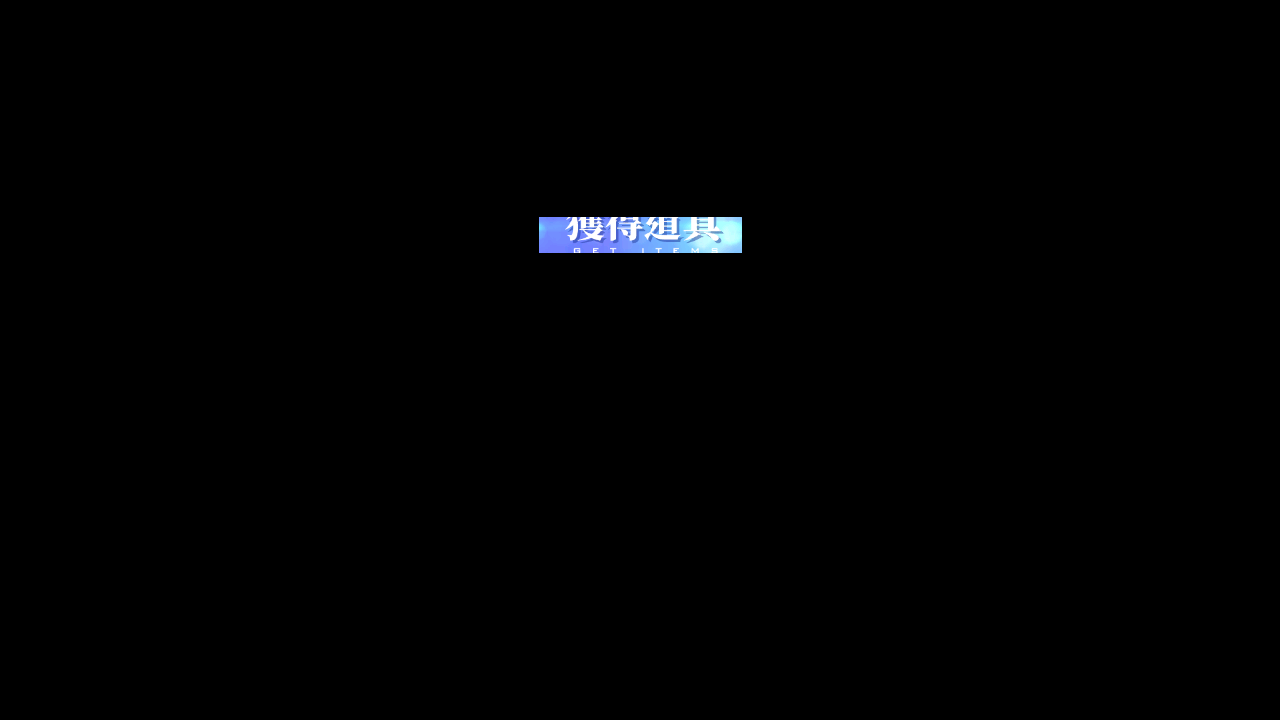
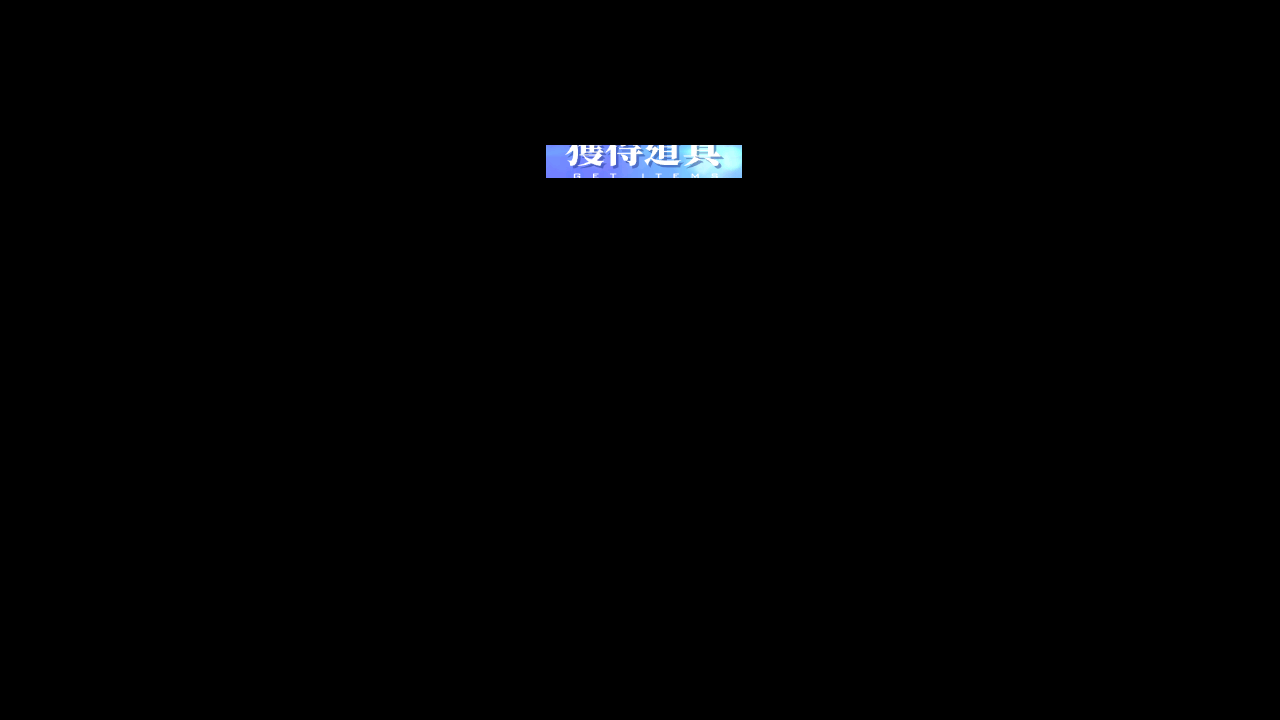
fix:[TW]GET_ITEMS_3.png

Changed region(s): [[0.4062, 0.275, 0.5938, 0.3667], [0.4062, 0.1833, 0.5938, 0.2444]]

diff --git a/module/combat/assets.py b/module/combat/assets.py
@@ -29,7 +29,7 @@ EXP_INFO_D = Button(area={'cn': (377, 42, 393, 137), 'en': (377, 42, 393, 137), 
 EXP_INFO_S = Button(area={'cn': (396, 122, 457, 137), 'en': (396, 122, 457, 137), 'jp': (396, 122, 457, 137), 'tw': (396, 122, 457, 137)}, color={'cn': (233, 241, 127), 'en': (233, 241, 127), 'jp': (233, 241, 127), 'tw': (233, 241, 127)}, button={'cn': (1051, 631, 1122, 641), 'en': (1051, 631, 1122, 641), 'jp': (1051, 631, 1122, 641), 'tw': (1051, 631, 1122, 641)}, file={'cn': './assets/cn/combat/EXP_INFO_S.png', 'en': './assets/en/combat/EXP_INFO_S.png', 'jp': './assets/jp/combat/EXP_INFO_S.png', 'tw': './assets/tw/combat/EXP_INFO_S.png'})
 GET_ITEMS_1 = Button(area={'cn': (538, 217, 741, 253), 'en': (550, 215, 739, 246), 'jp': (539, 220, 741, 252), 'tw': (539, 217, 742, 253)}, color={'cn': (160, 192, 248), 'en': (157, 187, 233), 'jp': (146, 184, 249), 'tw': (155, 190, 248)}, button={'cn': (1000, 631, 1055, 689), 'en': (999, 630, 1047, 691), 'jp': (1000, 631, 1055, 689), 'tw': (1000, 631, 1055, 689)}, file={'cn': './assets/cn/combat/GET_ITEMS_1.png', 'en': './assets/en/combat/GET_ITEMS_1.png', 'jp': './assets/jp/combat/GET_ITEMS_1.png', 'tw': './assets/tw/combat/GET_ITEMS_1.png'})
 GET_ITEMS_2 = Button(area={'cn': (538, 146, 742, 182), 'en': (549, 140, 740, 176), 'jp': (536, 146, 741, 182), 'tw': (538, 144, 741, 178)}, color={'cn': (160, 192, 248), 'en': (152, 185, 236), 'jp': (145, 182, 249), 'tw': (155, 190, 248)}, button={'cn': (1000, 631, 1055, 689), 'en': (999, 630, 1047, 691), 'jp': (1000, 631, 1055, 689), 'tw': (1000, 631, 1055, 689)}, file={'cn': './assets/cn/combat/GET_ITEMS_2.png', 'en': './assets/en/combat/GET_ITEMS_2.png', 'jp': './assets/jp/combat/GET_ITEMS_2.png', 'tw': './assets/tw/combat/GET_ITEMS_2.png'})
-GET_ITEMS_3 = Button(area={'cn': (539, 143, 742, 179), 'en': (548, 136, 740, 172), 'jp': (540, 143, 742, 179), 'tw': (539, 217, 742, 253)}, color={'cn': (161, 193, 248), 'en': (152, 185, 237), 'jp': (145, 182, 248), 'tw': (155, 190, 248)}, button={'cn': (1000, 631, 1055, 689), 'en': (999, 630, 1047, 691), 'jp': (1000, 631, 1055, 689), 'tw': (1000, 631, 1055, 689)}, file={'cn': './assets/cn/combat/GET_ITEMS_3.png', 'en': './assets/en/combat/GET_ITEMS_3.png', 'jp': './assets/jp/combat/GET_ITEMS_3.png', 'tw': './assets/tw/combat/GET_ITEMS_3.png'})
+GET_ITEMS_3 = Button(area={'cn': (539, 143, 742, 179), 'en': (548, 136, 740, 172), 'jp': (540, 143, 742, 179), 'tw': (546, 145, 742, 178)}, color={'cn': (161, 193, 248), 'en': (152, 185, 237), 'jp': (145, 182, 248), 'tw': (156, 190, 248)}, button={'cn': (1000, 631, 1055, 689), 'en': (999, 630, 1047, 691), 'jp': (1000, 631, 1055, 689), 'tw': (1000, 631, 1055, 689)}, file={'cn': './assets/cn/combat/GET_ITEMS_3.png', 'en': './assets/en/combat/GET_ITEMS_3.png', 'jp': './assets/jp/combat/GET_ITEMS_3.png', 'tw': './assets/tw/combat/GET_ITEMS_3.png'})
 GET_ITEMS_3_CHECK = Button(area={'cn': (335, 184, 947, 203), 'en': (335, 184, 947, 203), 'jp': (335, 184, 947, 203), 'tw': (335, 184, 947, 203)}, color={'cn': (84, 95, 109), 'en': (84, 95, 109), 'jp': (84, 95, 109), 'tw': (84, 95, 109)}, button={'cn': (335, 184, 947, 203), 'en': (335, 184, 947, 203), 'jp': (335, 184, 947, 203), 'tw': (335, 184, 947, 203)}, file={'cn': './assets/cn/combat/GET_ITEMS_3_CHECK.png', 'en': './assets/en/combat/GET_ITEMS_3_CHECK.png', 'jp': './assets/jp/combat/GET_ITEMS_3_CHECK.png', 'tw': './assets/tw/combat/GET_ITEMS_3_CHECK.png'})
 GET_SHIP = Button(area={'cn': (1104, 610, 1110, 630), 'en': (1104, 610, 1110, 630), 'jp': (1104, 610, 1110, 630), 'tw': (1104, 610, 1110, 630)}, color={'cn': (255, 255, 255), 'en': (255, 255, 255), 'jp': (255, 255, 255), 'tw': (255, 255, 255)}, button={'cn': (1000, 631, 1055, 689), 'en': (999, 630, 1047, 691), 'jp': (1000, 631, 1055, 689), 'tw': (1000, 631, 1055, 689)}, file={'cn': './assets/cn/combat/GET_SHIP.png', 'en': './assets/en/combat/GET_SHIP.png', 'jp': './assets/jp/combat/GET_SHIP.png', 'tw': './assets/tw/combat/GET_SHIP.png'})
 LOADING_BAR = Button(area={'cn': (33, 676, 1247, 680), 'en': (33, 676, 1247, 680), 'jp': (33, 676, 1247, 680), 'tw': (33, 676, 1247, 680)}, color={'cn': (172, 205, 232), 'en': (172, 205, 232), 'jp': (172, 205, 232), 'tw': (172, 205, 232)}, button={'cn': (33, 676, 1247, 680), 'en': (33, 676, 1247, 680), 'jp': (33, 676, 1247, 680), 'tw': (33, 676, 1247, 680)}, file={'cn': './assets/cn/combat/LOADING_BAR.png', 'en': './assets/en/combat/LOADING_BAR.png', 'jp': './assets/jp/combat/LOADING_BAR.png', 'tw': './assets/tw/combat/LOADING_BAR.png'})
